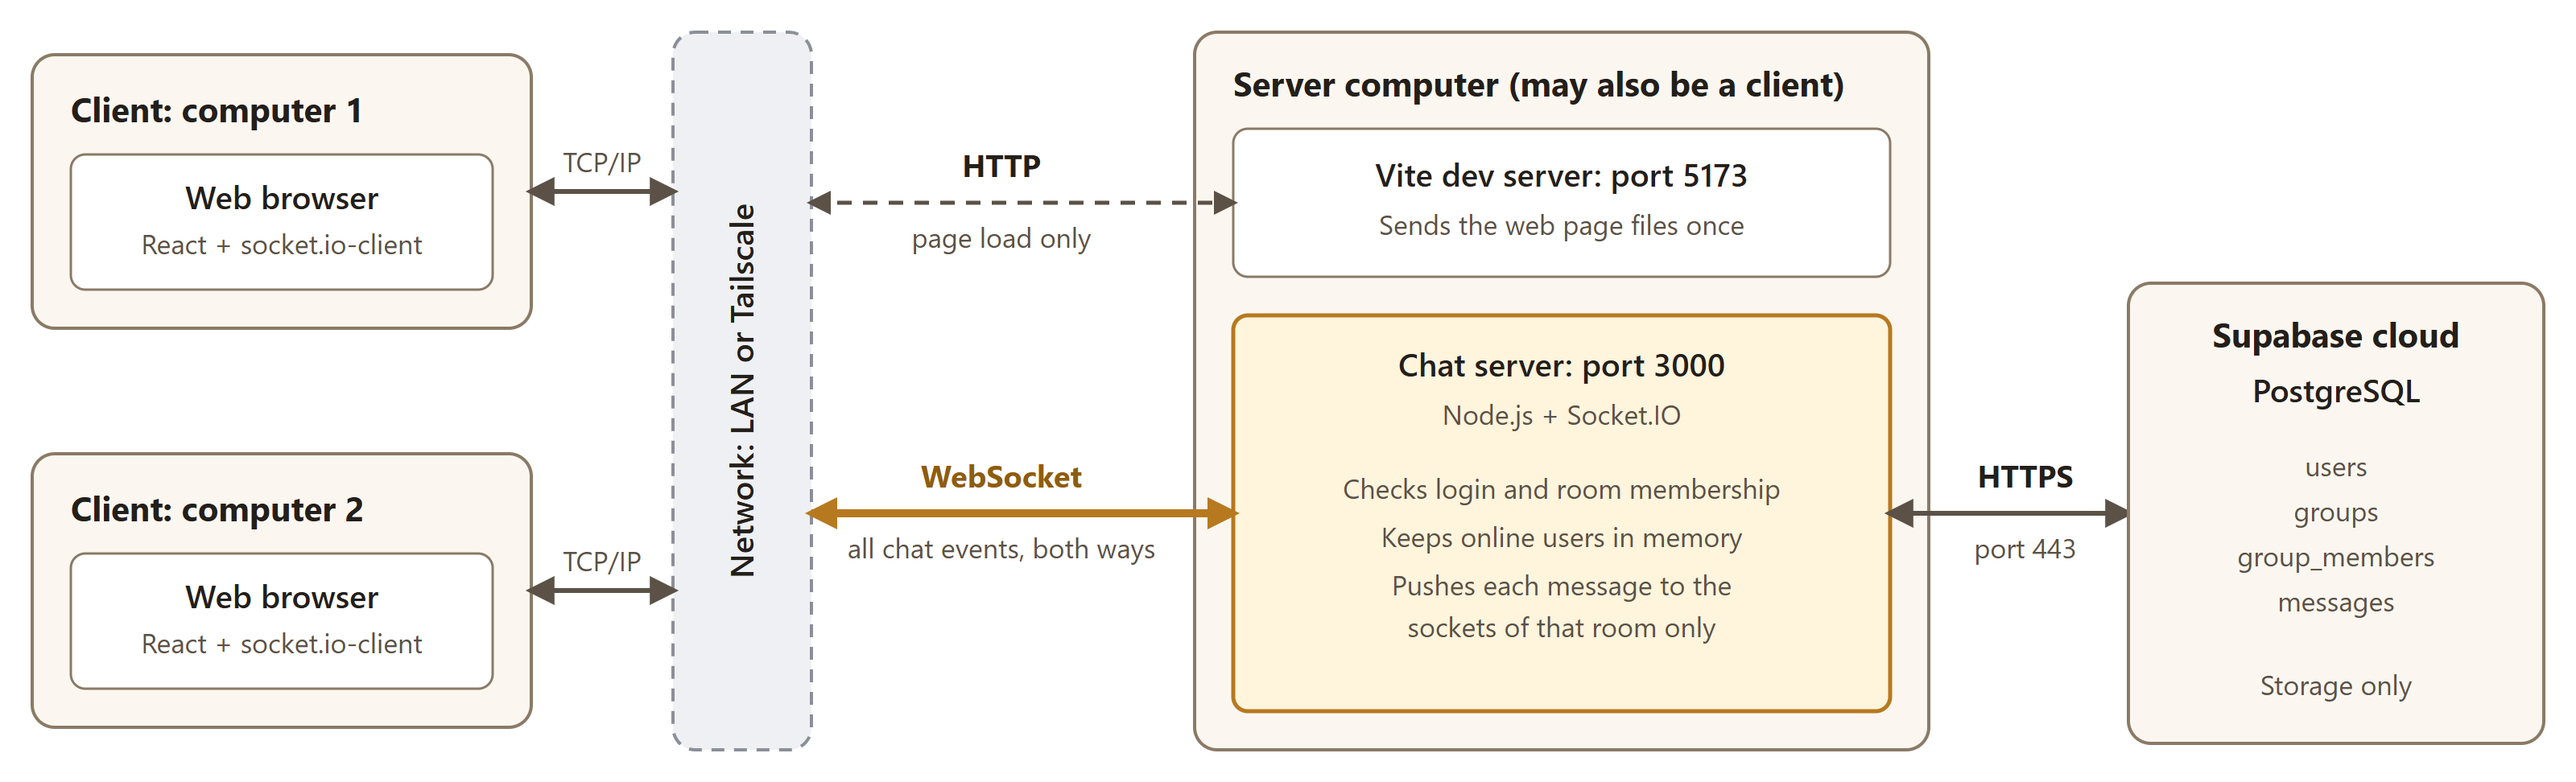
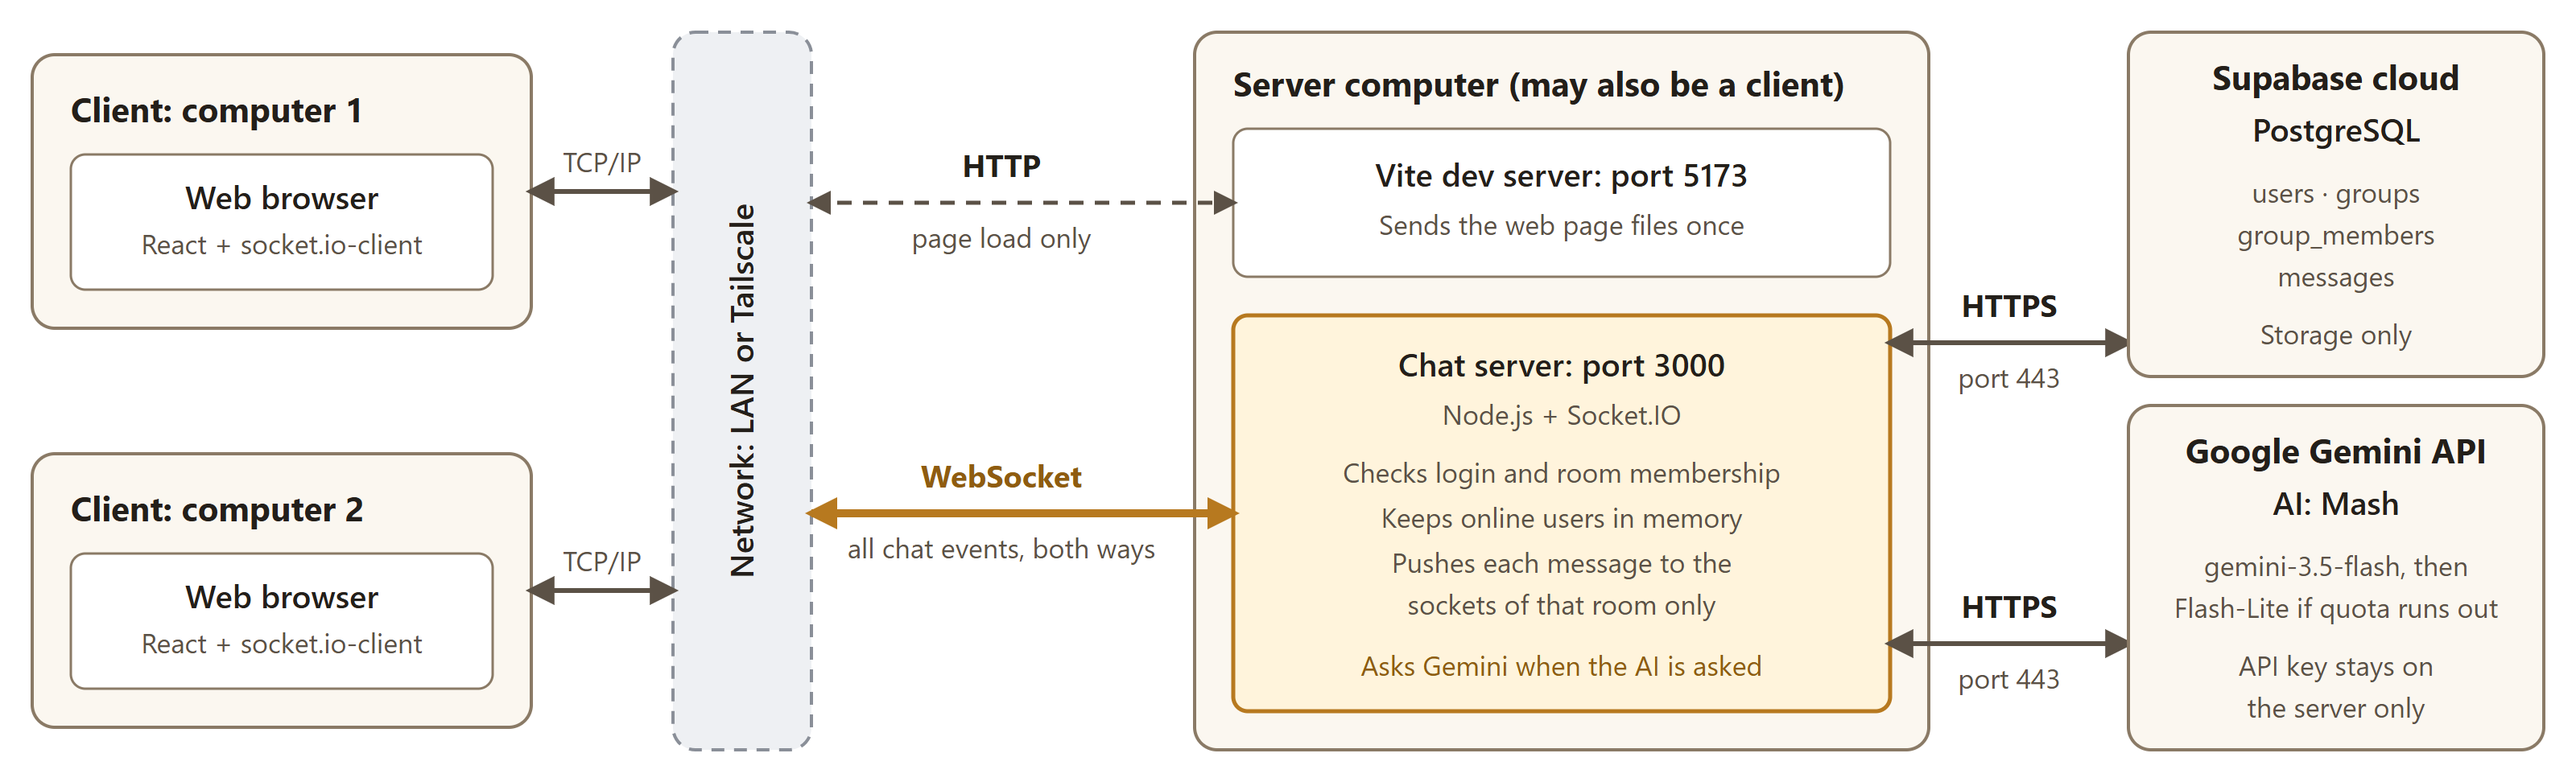
Add Google Gemini to the architecture diagram and docs
The R1 diagram now shows the Gemini API under the chat server (HTTPS,
port 443), and ARCHITECTURE.md lists it in the HTTPS row.

diff --git a/docs/ARCHITECTURE.md b/docs/ARCHITECTURE.md
@@ -10,6 +10,7 @@
 - **Server** มี 2 โปรแกรม คือ Vite (ส่งไฟล์หน้าเว็บ) และ chat server (รับส่งแชต)
 - **เครื่อง server** จะเป็นเครื่องเดียวกับ client หรือเครื่องที่สามก็ได้ ตามที่โจทย์อนุญาต
 - **Supabase** เป็นที่เก็บข้อมูลเท่านั้น client ไม่ได้ต่อ Supabase โดยตรง
+- **Google Gemini API** ตอบแทน AI (Mash Kyrielight) server เรียกเมื่อมีคน DM หา AI หรือพิมพ์ `@AI` ในกลุ่ม client ไม่ได้ต่อ Gemini โดยตรง และ key อยู่ฝั่ง server เท่านั้น
 - **ทุก client ต้องต่อ chat server ตัวเดียวกัน** รายชื่อออนไลน์และการส่งข้อความอยู่ในหน่วยความจำของ server ตัวนั้น
 
 ## Protocol ที่ใช้
@@ -21,7 +22,7 @@
 | HTTP | โหลดหน้าเว็บ และเริ่ม WebSocket | เป็นวิธีมาตรฐานที่ browser ใช้ และ WebSocket ต้องเริ่มจาก HTTP | Vite ส่งไฟล์หน้าเว็บที่พอร์ต 5173 และ client ขอ `Upgrade: websocket` ที่พอร์ต 3000 |
 | WebSocket | รับส่งแชตทุกอย่าง | full-duplex ใช้การเชื่อมต่อเดียว server ส่งข้อความหา client ได้ทันทีโดยไม่ต้องรอให้ client ถาม | บังคับด้วย `transports: ["websocket"]` ทั้งสองฝั่ง |
 | Socket.IO | ชั้น event บน WebSocket | มี event, room, ack และการต่อใหม่ให้ ไม่ต้องเขียนเองทั้งหมด | ใช้ event เช่น `dm:send`, `message:new` และแยกกลุ่มด้วย room `group:<id>` |
-| HTTPS | server คุยกับ Supabase | เข้ารหัสข้อมูลและ secret key ระหว่างทาง | `server/src/repo/` เรียก Supabase ผ่าน `@supabase/supabase-js` |
+| HTTPS | server คุยกับ Supabase และ Google Gemini API | เข้ารหัสข้อมูลและ secret key ระหว่างทาง | `server/src/repo/` เรียก Supabase ผ่าน `@supabase/supabase-js` และ `server/src/ai.ts` เรียก Gemini ด้วย `fetch` ที่พอร์ต 443 |
 
 ## ข้อความหนึ่งเดินทางอย่างไร
 
@@ -52,7 +53,7 @@
 - ฝั่ง server ไม่มี REST route และฝั่ง React ไม่มีการเรียก `fetch` หรือ Supabase
 - `server/test/chat-server.test.ts` ตรวจเรื่องการปฏิเสธ long-polling ทุกครั้งที่รัน `npm test`
 - HTTP ที่พอร์ต 5173 ส่งแค่ไฟล์หน้าเว็บ ไม่มีข้อความแชต
-- HTTPS ไป Supabase เป็นการเก็บข้อมูลระหว่าง server กับฐานข้อมูล ไม่ใช่การรับส่งระหว่าง server กับ client
+- HTTPS ไป Supabase และ Gemini เป็นการคุยระหว่าง server กับบริการภายนอก ไม่ใช่การรับส่งระหว่าง server กับ client คำตอบของ AI กลับถึง client ทาง `message:new` บน WebSocket เหมือนข้อความทั่วไป
 
 ## การต่อข้ามเครื่องตอน demo
 
